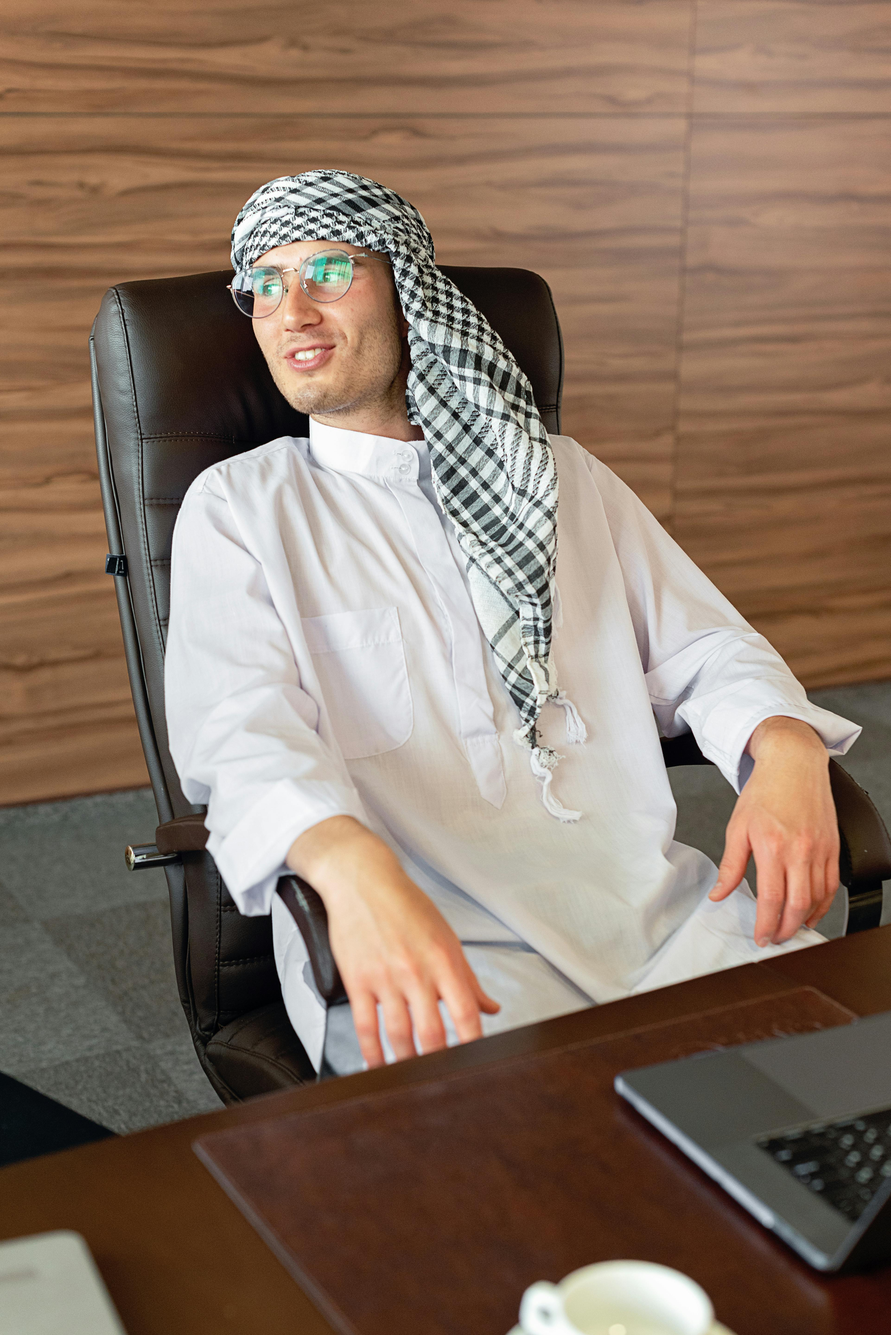
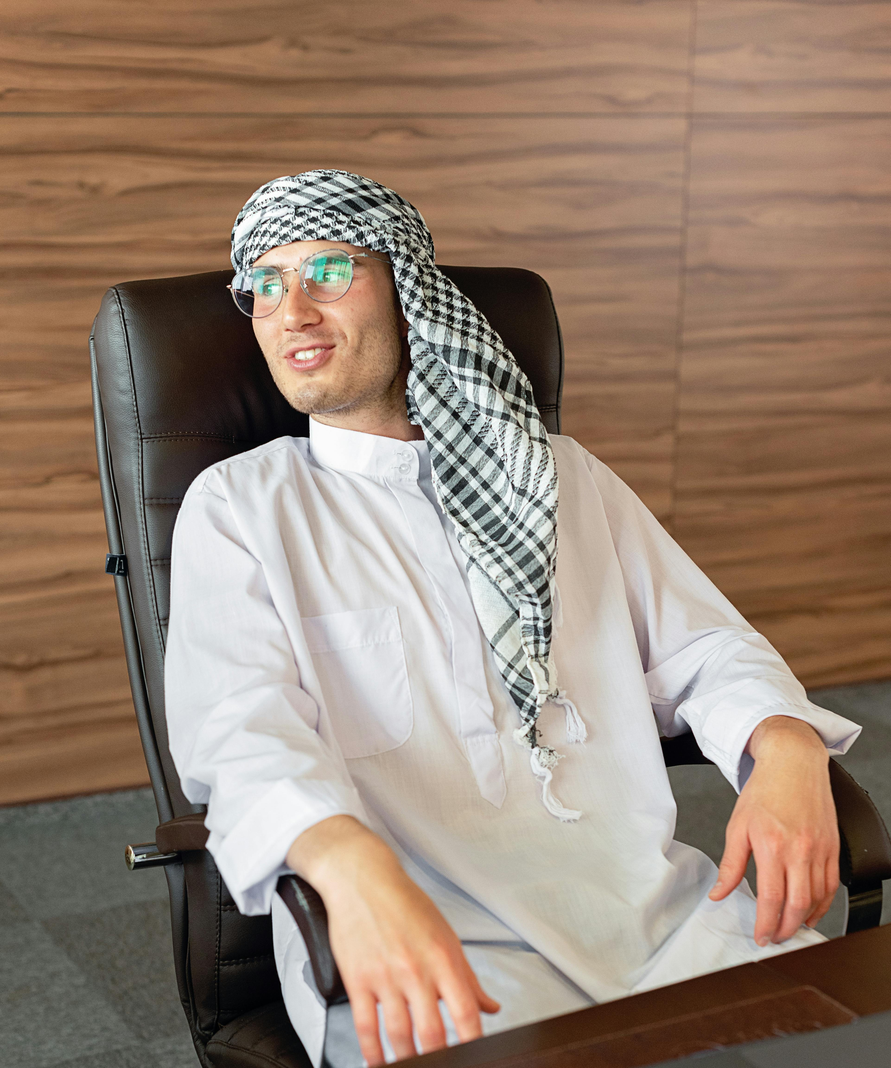
Top properties enlisted

diff --git a/src/Components/Pages/Index.jsx b/src/Components/Pages/Index.jsx
@@ -207,8 +207,79 @@ const Index = () => {
                   </Swiper>
 
                   {/* Property Info */}
-                  <div className="py-4 my-2 ">
-                    <Link to={`/PropertiesDetails/${property.id} `}></Link>
+                  <div className="py-2 my-1 ">
+                    <Link to={`/PropertiesDetails/${property.id} `}>
+                      <div className="px-3">
+                        <h3 className='text-xl font-bricolage font-bold mb-2 text-gray-900 '>
+                          {property.title}
+                        </h3>
+                        <p className="text-gray-600 text-sm mt-1 ">
+                          <i className="bi bi-house-door-fill mr-1 "></i> {property.bedrooms} Beds &nbsp; -- &nbsp;
+                          <i className="bi bi-droplet-half mr-1 "></i> {property.bedrooms} Baths &nbsp; -- &nbsp;
+                          <i className="bi bi-fullscreen mr-1 "></i>
+                        </p>
+                      </div>
+                      <div className="flex items-center justify-between mt-4 border-t px-4 pt-2 ">
+                        <p className="font-bold text-xl font-bricolage mt-2">{property.price}</p>
+                        <img src={property.avatar} alt="Agent" className='w-[50px] h-[50px] object-cover rounded border-2 mr-3 ' />
+                      </div>
+                    </Link>
+                  </div>
+                </div>
+              </SwiperSlide>))}
+          </Swiper>
+        </div>
+      </div>
+    {/* Top Properties */}
+      <div className="top-properties bg-[#00b42a5f] px-[12%] py-[80px] ">
+        <div className="service-title section-title mb-10 ">
+          <h4 className="text-5xl font-bold ">Top Properties</h4>
+          <p className='text-[#2f2956] font-[400] text-xl py-[10px] '>Those are the top rated properties, Niraloy can offer.</p>
+        </div>
+
+        <div className="py-6">
+          <Swiper modules={[Pagination]} pagination={{clickable: true}} slidesPerView={3} spaceBetween={20} loop={true} breakpoints={{
+            1399: {slidesPerView: 3},
+            1199: {slidesPerView: 3},
+            991: {slidesPerView: 2},
+            575: {slidesPerView: 1},
+            0: {slidesPerView: 1}
+          }} className='property-card-slider py-5' >
+            {propertiesData.top.map((property) => (
+              <SwiperSlide key={`top-${property.id}`} >
+                <div className="bg-white rounded-2xl shadow-lg hover:shadow-xl transition-all duration-300 overflow-hidden mb-10 ">
+                  {/* Inner Image Swiper */}
+                  <Swiper
+                    modules={[Pagination]}
+                    pagination={{clickable: true}}
+                    loop={true}
+                    className='property-img-slider'
+                  >
+                    {property.images.map((img, index) => (
+                      <SwiperSlide key={index}>
+                        <img src={img} alt={`${property.title} ${index + 1}`} className='w-full h-[15rem] object-cover rounded' />
+                      </SwiperSlide>
+                    ))}
+                  </Swiper>
+
+                  {/* Property Info */}
+                  <div className="py-2 my-1 ">
+                    <Link to={`/PropertiesDetails/${property.id} `}>
+                      <div className="px-3">
+                        <h3 className='text-xl font-bricolage font-bold mb-2 text-gray-900 '>
+                          {property.title}
+                        </h3>
+                        <p className="text-gray-600 text-sm mt-1 ">
+                          <i className="bi bi-house-door-fill mr-1 "></i> {property.bedrooms} Beds &nbsp; -- &nbsp;
+                          <i className="bi bi-droplet-half mr-1 "></i> {property.bedrooms} Baths &nbsp; -- &nbsp;
+                          <i className="bi bi-fullscreen mr-1 "></i>
+                        </p>
+                      </div>
+                      <div className="flex items-center justify-between mt-4 border-t px-4 pt-2 ">
+                        <p className="font-bold text-xl font-bricolage mt-2">{property.price}</p>
+                        <img src={property.avatar} alt="Agent" className='w-[50px] h-[50px] object-cover rounded border-2 mr-3 ' />
+                      </div>
+                    </Link>
                   </div>
                 </div>
               </SwiperSlide>))}

diff --git a/src/Components/Pages/PropertiesDetails.jsx b/src/Components/Pages/PropertiesDetails.jsx
@@ -1,0 +1,37 @@
+import React, { useState } from 'react'
+
+// Properties Data
+import propertiesData from '../../Properties.json'
+
+import { Swiper, SwiperSlide } from 'swiper/react'
+import { Pagination } from 'swiper/modules'
+import 'swiper/css'
+import 'swiper/css/pagination'
+
+import sectionbanner from '../../assets/sectionbanner.jpg'
+// import agentImg from '../../assets/agentImg.jpg'
+// import floorplanA from '../../assets/floorplanA.jpg'
+// import floorplanB from '../../assets/floorplanB.jpg'
+import { useParams } from 'react-router-dom'
+
+
+const PropertiesDetails = () => {
+  const {id} = useParams();
+  const property = propertiesData.latest.find((p) => String(p.id) === String(id));
+
+  const [showImageA, setShowImageA] = useState(false)
+  const [showImageB, setShowImageB] = useState(false)
+
+  if(!property){
+    return <div className="text-center py-20 text-xl text-red-600 font-semibold ">Property not found</div>
+  }
+
+  return (
+    <>
+      {/* Hero Section */}
+      <div className="relative bg-cover bg-center h-[450px] lg:h-[600px] px-[2%] lg:px-[12%] py-[80px] flex flex-col justify-center items-center text-center text-white " style={{backgroundImage: `url(${sectionbanner})`}}></div>
+    </>
+  )
+}
+
+export default PropertiesDetails

diff --git a/src/App.jsx b/src/App.jsx
@@ -2,6 +2,7 @@ import './App.css'
 import {BrowserRouter as Router, Routes, Route} from 'react-router-dom'
 import Nav from './Components/Nav'
 import Index from './Components/Pages/Index'
+import PropertiesDetails from './Components/Pages/PropertiesDetails'
 
 function App() {
 
@@ -11,6 +12,7 @@ function App() {
         <Nav/>
         <Routes>
           <Route path='/' element={<Index/>}/>
+          <Route path="/PropertiesDetails/:id " element={<PropertiesDetails/>}/>
         </Routes>
       </Router>
     </>

diff --git a/src/index.css b/src/index.css
@@ -75,3 +75,17 @@
   opacity: 1;
   top: 0%;
 }
+.swiper-wrapper{
+  padding: 30px 0;
+}
+.share-icons{
+  position: absolute;
+}
+.swiper-pagination-bullets .swiper-pagination-bullet{
+  padding: 5px;
+  background-color: #005414;
+  transition: 0.4s;
+}
+.property-img-slider .swiper-wrapper{
+  padding: 0 !important;
+}
